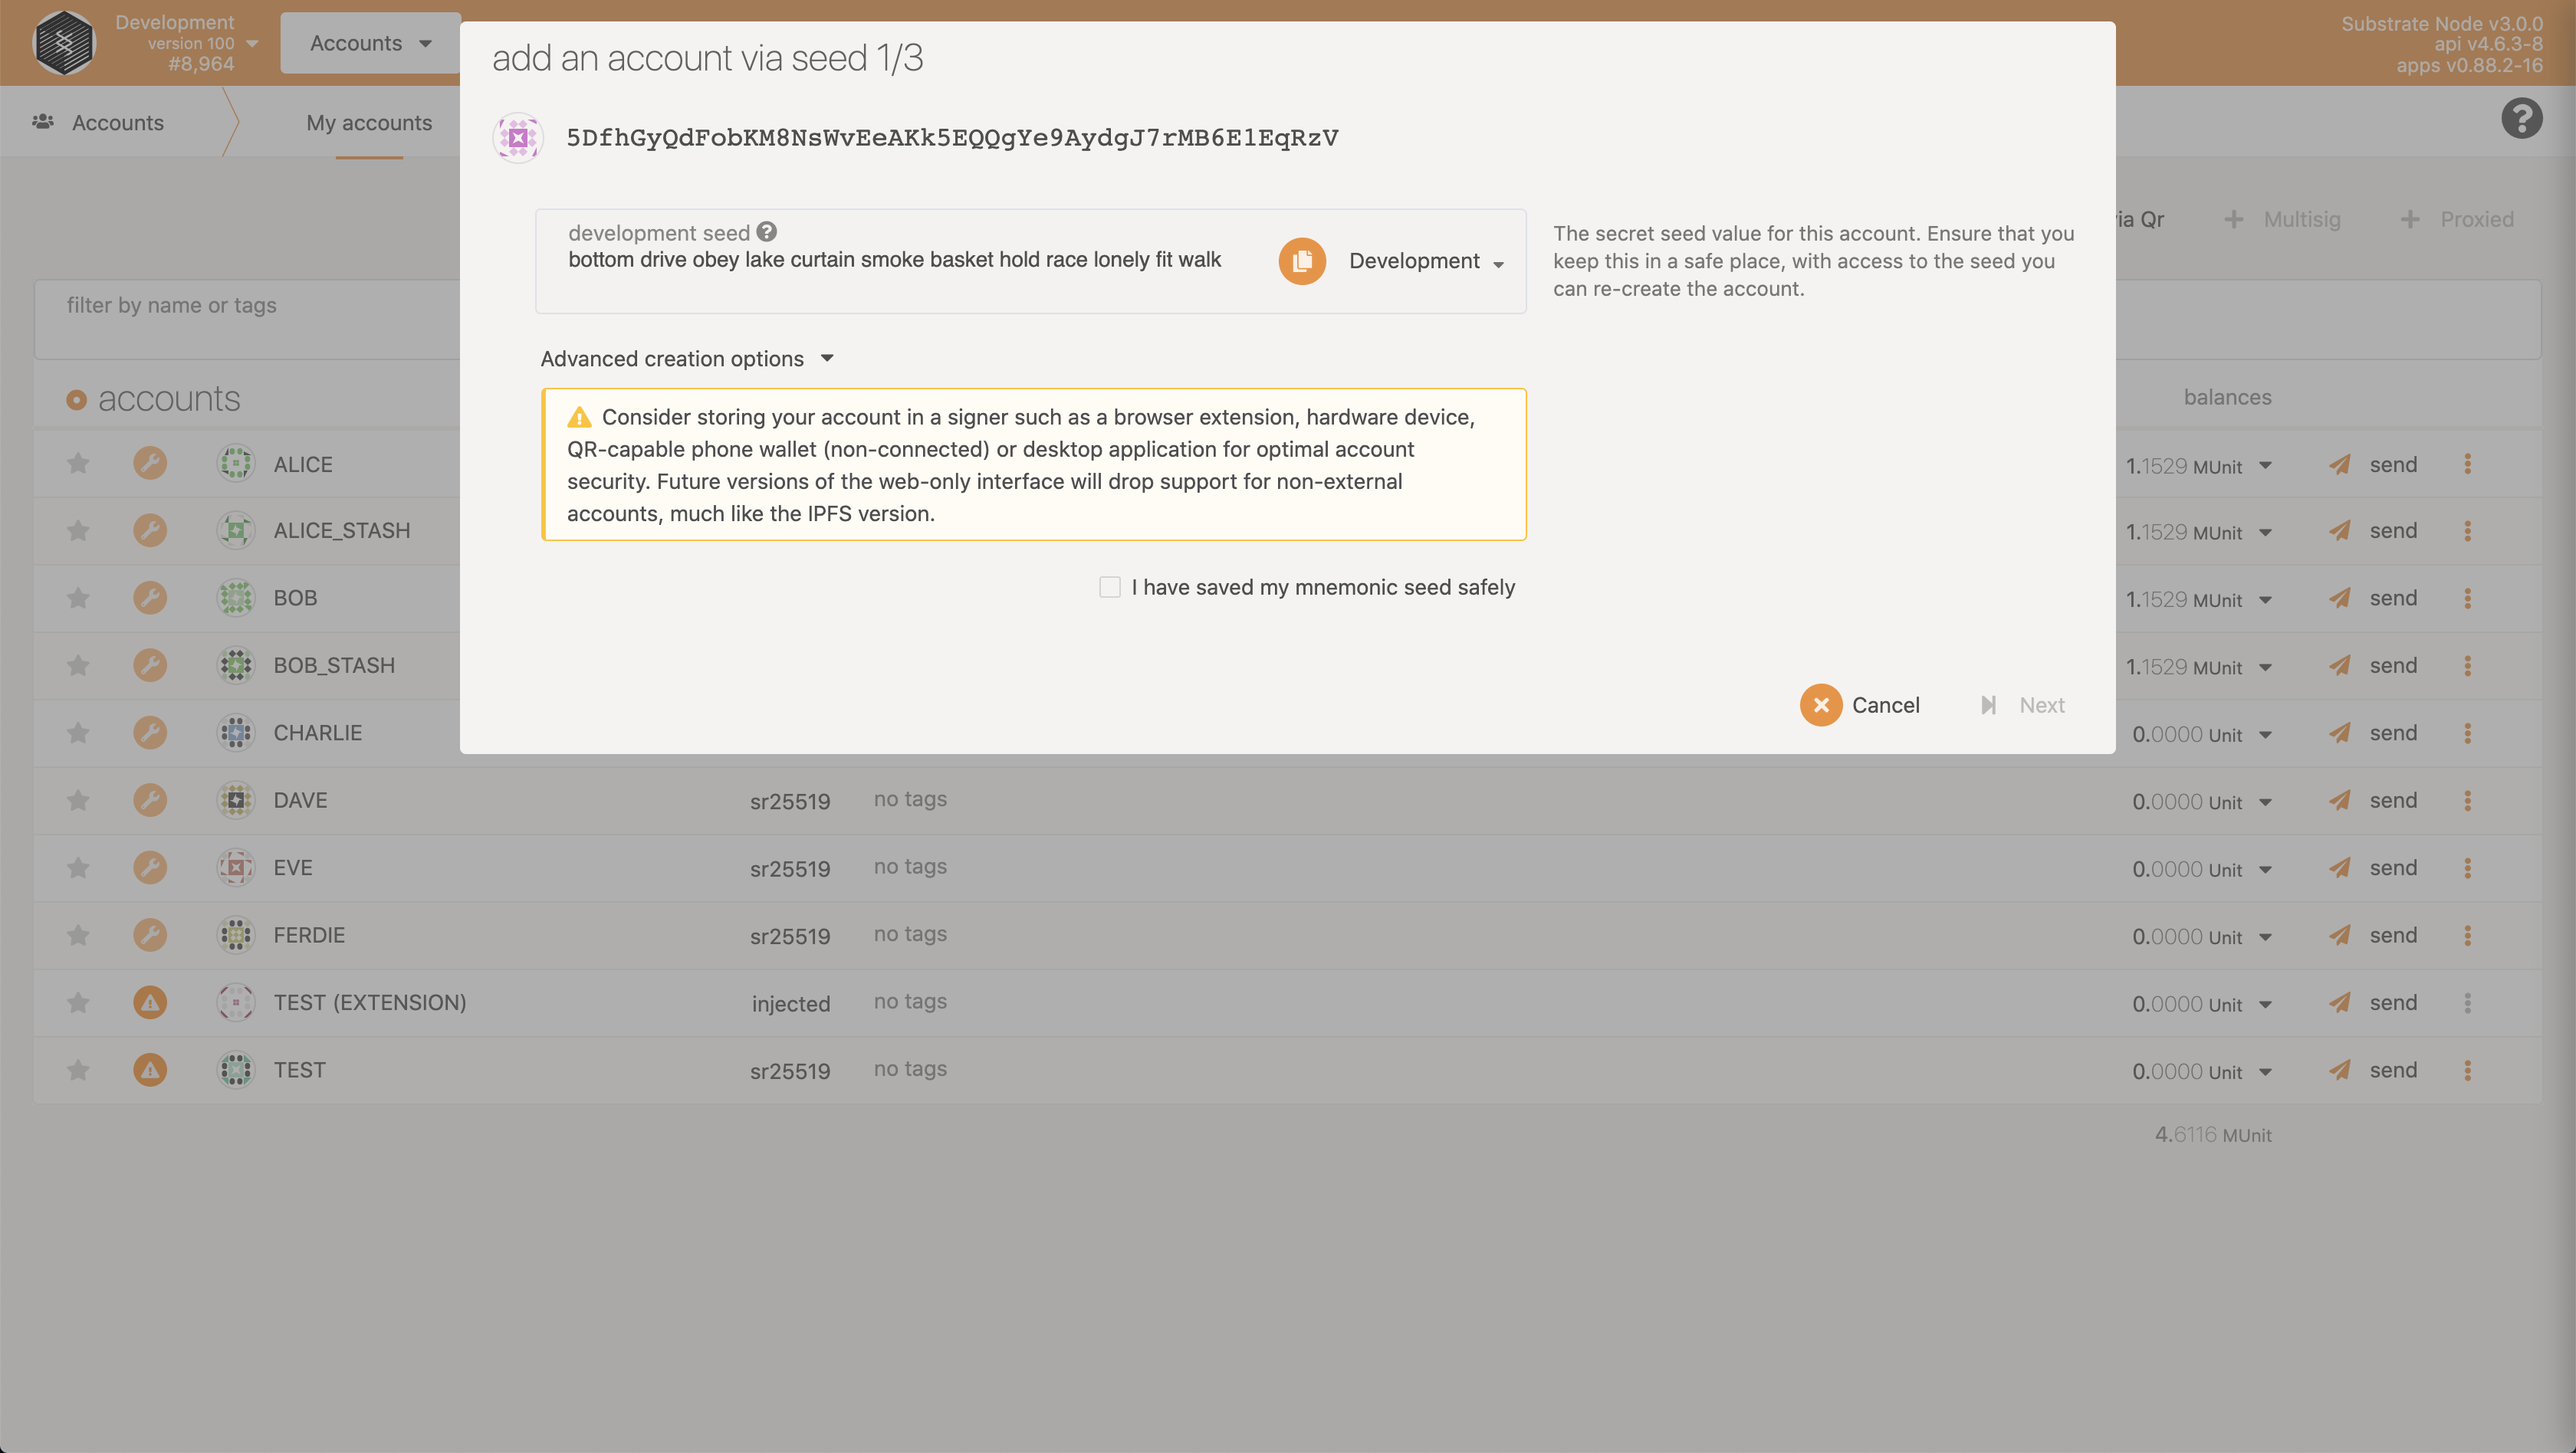
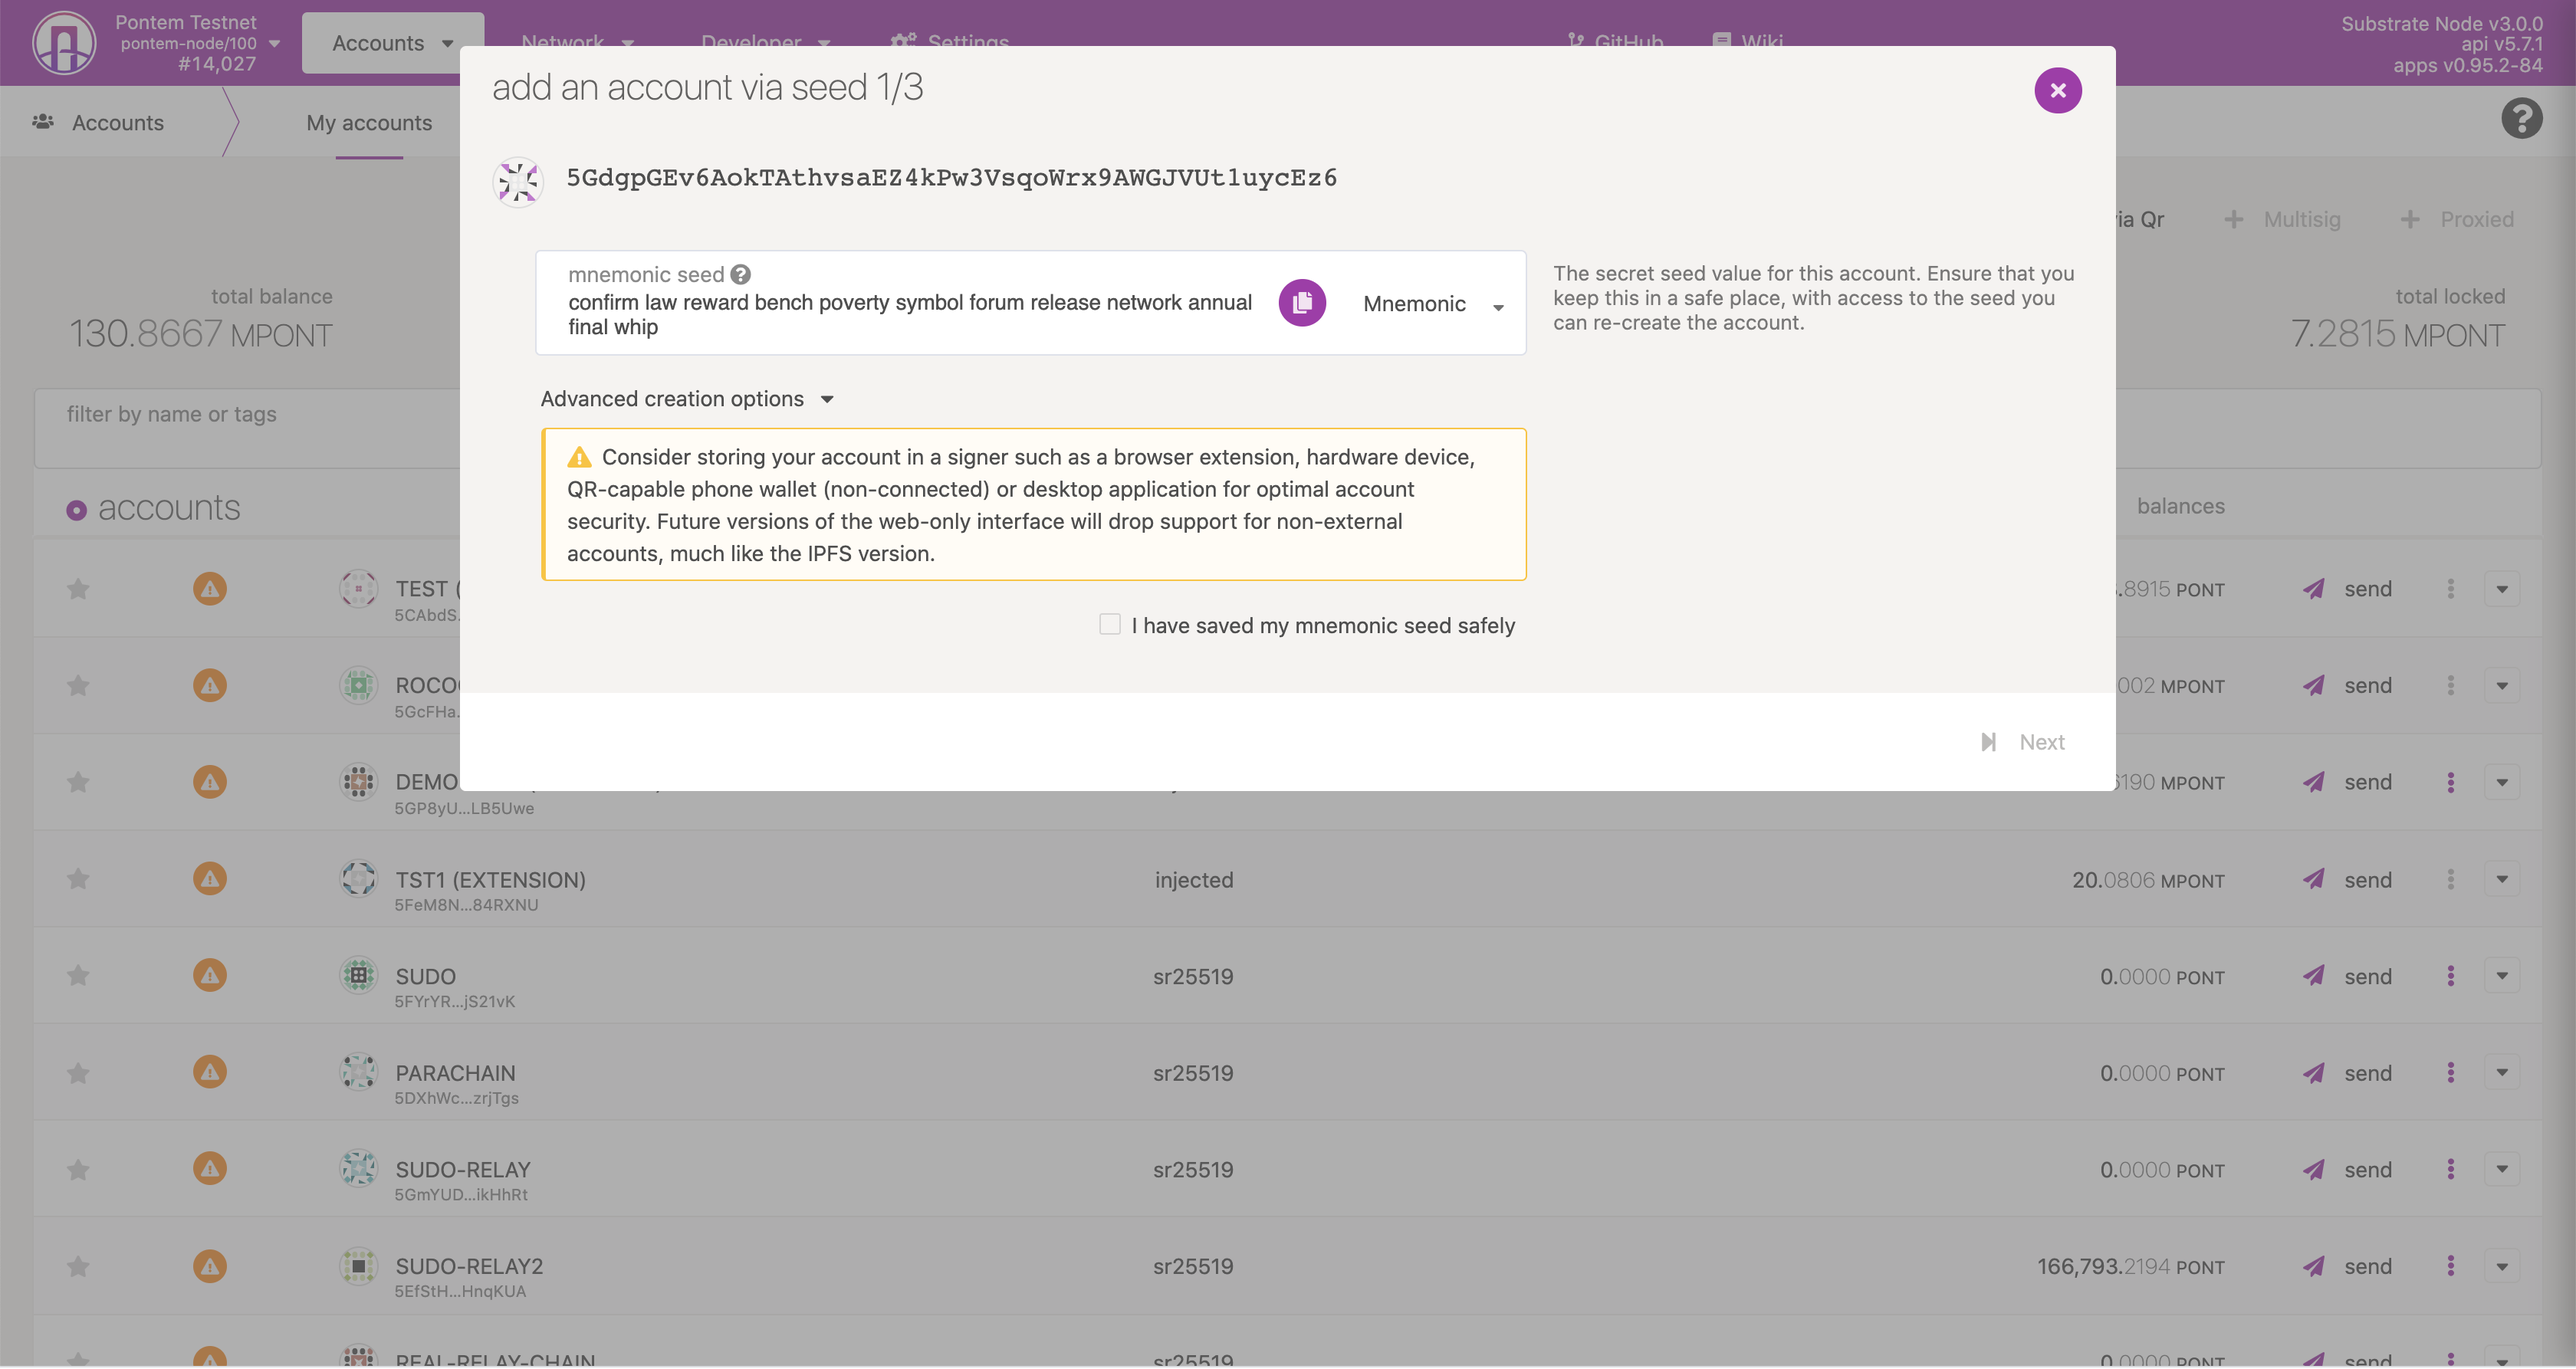
update: local node and UI

diff --git a/getting_started/ui.md b/getting_started/ui.md
@@ -2,55 +2,27 @@
 
 Easiest way to iterate with Polkadot based blockchain to use Polkadot JS App UI. 
 
-Before start you need to configure UI:
+You can use the UI to create new accounts, send transactions, do RPC calls, and much more. 
 
-* To connect to testnet use next address: `wss://testnet.pontem.network/wss`.
-* To connect to local node use next address: `ws://127.0.0.1:9944`.
+## Deployed Polkadot App.
 
-1. Navigate to [Polkadot JS App UI](https://polkadot.js.org/apps).
-2. Setup UI to use an **IP address** if needed (to see network settings click on the orange circle in the top right corner and change custom endpoint).
+Use following link to connect to Pontem node using UI - [PONTEM UI](https://polkadot.js.org/apps/?rpc=wss%3A%2F%2Ftestnet.pontem.network%2Fws#/accounts).
 
-Go to `Settings -> Developer` and put there next JSON:
+Otherwise you can configure UI manually:
 
-```json
-{
-  "MoveModuleId": {
-    "address": "AccountId",
-    "name": "Text"
-  },
-  "MoveTypeTag": {
-    "_enum": [
-      "Bool",
-      "U8",
-      "U64",
-      "U128",
-      "Address",
-      "Signer",
-      "Vector",
-      "Struct"
-    ],
-    "Bool": null,
-    "U8": null,
-    "U64": null,
-    "U128": null,
-    "Address": null,
-    "Signer": null,
-    "Vector": "MoveTypeTag",
-    "Struct": "MoveStructTag"
-  },
-  "MoveStructTag": {
-    "address": "AccountId",
-    "module": "Text",
-    "name": "Text"
-  }
-}
-```
-
-Save configuration.
+* Navigate to [Polkadot App](https://polkadot.js.org/apps).
+* Choose network (to see network settings click on the orange circle in the top right corner and change custom endpoint).
+* Click on `TEST NETWORKS`.
+* Click on `Pontem`.
+* Click on the `Switch` button. 
 
 ## Account creation
 
-![Account](/assets/module.png "Account")
+{% hint style="info" %}
+🧙♂ We recommend to use [Polkadot Extension](https://polkadot.js.org/extension/) to create account, it supports hardware wallets and has integration with Polkadot App UI, otherwise use current documentation. 
+{% endhint %}
+
+![Account](/assets/account.png "Account")
 
 * Navigate to **"Accounts"** in the header menu.
 * Click on **"Add account"**.
@@ -61,15 +33,15 @@ Otherwise you can use [Polkadot JS Extension](https://polkadot.js.org/extension/
 
 ## Transactions
 
+In the current documentation we describe how to send execute scripts and publish module transactions.
+
 {% hint style="info" %}
 🧙♂ Read [Move VM](../move_vm/README.md) pallet documentation to build first modules and scripts.
 {% endhint %}
 
-You can use the UI to create new accounts, send transactions, and do RPC calls etc. In the current documentation we describe how to send execute script and publish module transactions, also how to deploy Standard Library using a sudo account.
+You need an account with balance (in case of local network use default accounts), in case of Pontem testnet network create a new account and fund it using [FAUCET](https://t.me/pontem_faucet_bot).
 
-You need an account with balance, in case of local network use default accounts, in case of Pontem demo network, use [FAUCET](https://t.me/pontem_faucet_bot).
-
-Next steps required to have  [dove](../move_vm/compiler_&_toolset.md) compiler installed, means you already compiled your modules/scripts.
+Next steps required to have the [dove](../move_vm/compiler_&_toolset.md) tool installed, means you already compiled your modules/scripts.
 
 ### Module
 
@@ -107,28 +79,6 @@ To deploy compiled script transaction do following steps:
 8. Submit a new signed transaction!
 9. Wait until the transaction is confirmed.
 
-### Sudo
-
-![Sudo](/assets/sudo.png "Sudo")
-
-You can use `sudo` in Substrate to deploy [Standard Library](../move_vm/stdlib.md) to Move VM pallet. Standard library will be stored under the `0x01` address.
-To deploy a standard library using `sudo` you need access to `sudo` account, in case of local network it's usually `Alice` account.
-
-See how to [build](./local_node.md#standard-library) Standard Library.
-
-To deploy standard module do following steps:
-
-1. Navigate to **Developer -> Extrinsics**.
-2. Choose the origin account (usually it's Alice in case of local network).
-3. Choose the **sudo** module.
-4. Choose **sudo(call)** transaction.
-5. Choose the **mvm** module in the call: **Call** field.
-6. Choose **publishPackage** transaction.
-7. Choose **package** field and enable file upload.
-8. Configure the gas limit parameter (usually 1000000 will be enough).  
-9. Submit a new signed transaction!
-10. Wait until the transaction is confirmed.
-
 ## Tips
 
 To speed up transaction you can provide additional tips to the transaction, when you click on **Submit Transaction** button it show modal where you can configure tip:
@@ -139,6 +89,14 @@ See [gas, weight and tips](../move_vm/gas.md) documentation to learn more.
 
 ## RPC
 
-Currently, you can't call Move pallet RPC from the UI, but we are going to fix it soon. 
+You can execute RPC calls using UI:
 
-So see [RPC](../move_vm/rpc.md) documentation to see how to send requests to RPC using other methods.
+* Navigate to **Developer -> RPC calls**.
+* Choose **mvm** module.
+* Choose method you want to execute:
+  * **gasToWeight(gas)** - converts gas to weight.
+  * **weightToGas(weight)** - converts weight to gas.
+  * **estimateGasExecute(account, tx_bc, gas_limit)** - estimate gas for `execute` transaction (accepts account, transaction, and gas limit as arguments).
+  * **estimateGasPublish(account, module_bc, gas_limit)** - estimate gas for `publishModule` transaction (accepts account, module, and gas limit as arguments).
+
+See [RPC](../move_vm/rpc.md) documentation to see how to send requests to RPC using other methods like curl or CLI.

diff --git a/getting_started/local_node.md b/getting_started/local_node.md
@@ -1,80 +1,3 @@
 # Local Node
 
-This part explains how to build Move VM pallet locally, and run the node in development mode locally.
-
-We recommend to use [rust toolchain](https://github.com/pontem-network/sp-move/blob/master/rust-toolchain) that we use during development.
-
-Install [Rust](https://www.rust-lang.org/tools/install) before moving to next steps.
-
-Visit repository of [Move Pallet](https://github.com/pontem-network/sp-move) and clone it:
-
-```sh
-git clone git@github.com:pontem-network/sp-move.git
-```
-
-Choose [tag](https://github.com/pontem-network/sp-move/tags) if needed, otherwise use `master`:
-
-```sh
-git checkout v0.3.0 # Latest actual tag
-```
-
-Navigate to cloned repository and launch init script:
-
-```sh
-cd ./sp-move
-./scripts/init.sh
-```
-
-Run local node:
-
-```sh
-make run
-```
-
-You will see logs once Substrate node built. To interact with local node using UI see the next page.
-
-## Standard Library
-
-You need to deploy [Standard Library](../move_vm/stdlib.md) after building a local node. Install [dove](../move_vm/compiler_&_toolset.md#installation) and build Standard Library:
-
-```sh
-git clone git@github.com:pontem-network/move-stdlib.git
-cd move-stdlib
-dove build --package
-```
-
-Dove build generates new package (means one binary contains all modules) and write in output where package placed, usually it's `./artifacts/packages` (or `./artifacts/bundles`):
-
-```sh
-ls -la ./artifacts/packages
-```
-
-See instruction how to deploy compiled package using `sudo`:
-
-* [Using UI](./ui.md#sudo)
-* [Using CLI](./cli.md#sudo)
-
-## Register PONT coin
-
-We need to register PONT coin information, so create new project using dove and write new script:
-
-```rustc
-script {
-    use 0x1::PONT;
-    use 0x1::Pontem;
-
-    fun register_pont() {
-        // To make sure PONT coin registered and known.
-        Pontem::register_coin<PONT::T>(b"PONT", 12);
-    }
-}
-```
-
-Compile transaction script:
-
-```sh
-dove tx 'register_pont()'
-```
-
-Execute script using [UI](./ui.md) or [CLI](./cli.md).
-
+To build your local dev version use instruction from [Pontem repository](https://github.com/pontem-network/pontem#substrate-move-vm).
